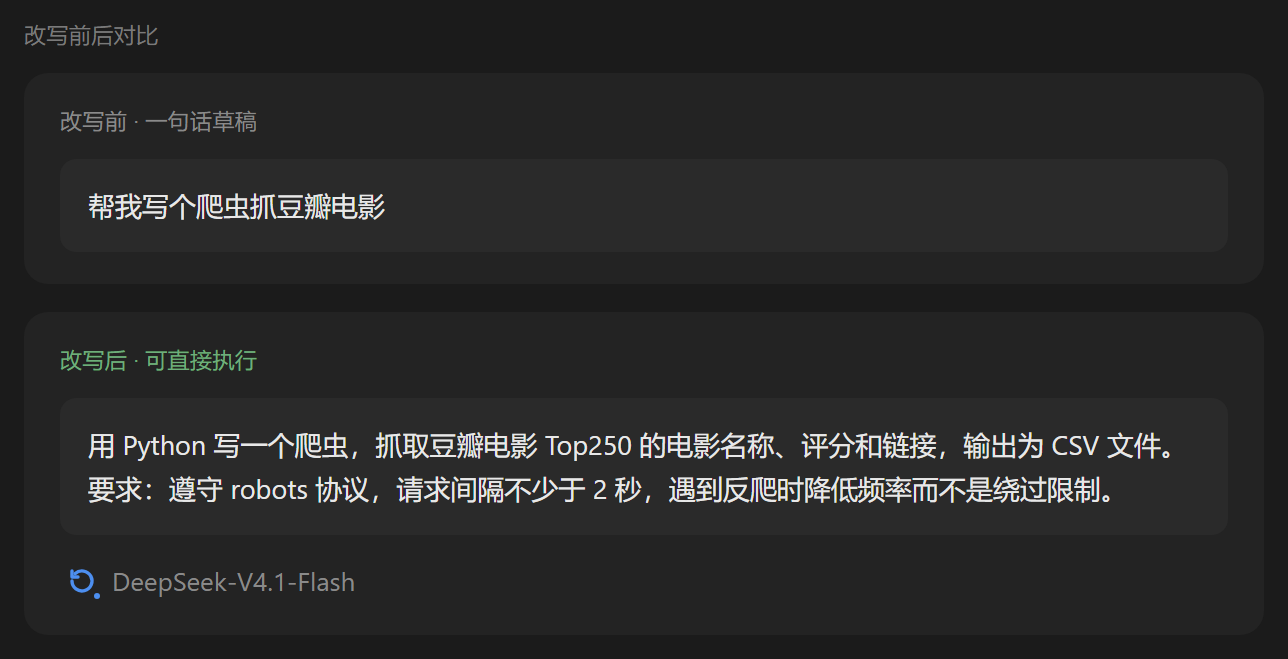
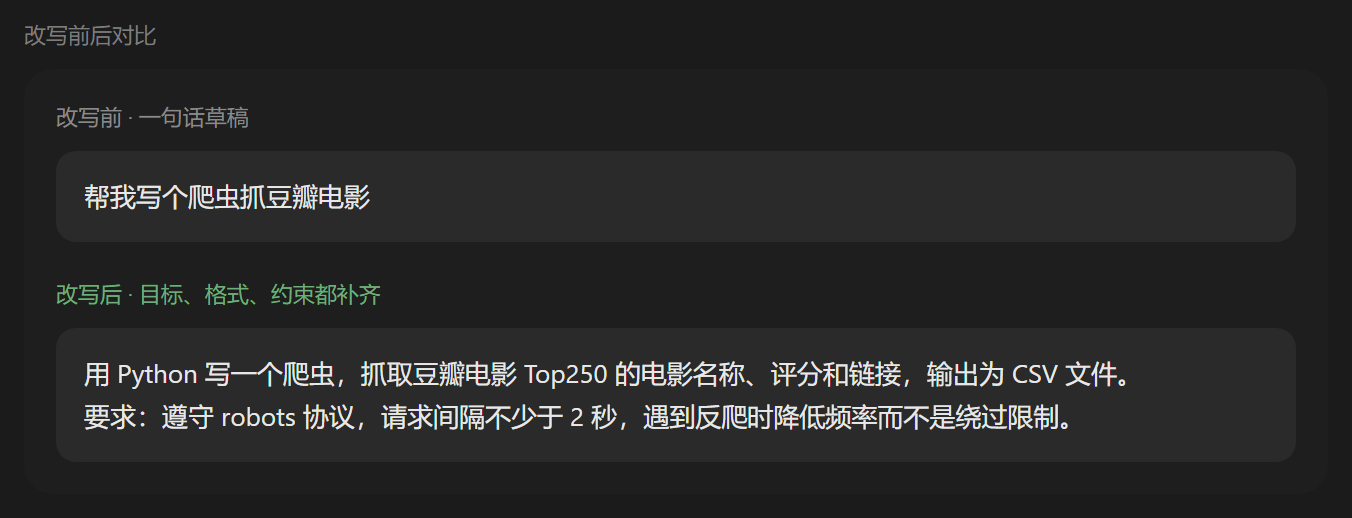
feat: rename to dsh-prompt-rewriter, rework screenshots, add release plumbing
The npm name dsh-prompt-enhance is taken by another author, so the package,
the loader row, the module ids, the README and every code reference move to
dsh-prompt-rewriter (free on both npm and GitHub).

Screenshots are re-rendered from the shipped stylesheet: the lead image now
shows the control inside a real composer card, next to the model label, which
is where the slot actually renders it.

LICENSE is now plain MIT so GitHub detects it; the third-party notices and the
upstream MIT text move to NOTICE.md. Adds engines, publishConfig, a syntax
guard, screenshots.json for the marketplace gallery, and CI plus a manual
publish workflow.

diff --git a/index.js b/index.js
@@ -1,5 +1,5 @@
 /**
- * dsh-prompt-enhance — Host half.
+ * dsh-prompt-rewriter — Host half.
  *
  * Owns one exact `/api/prompt-enhance` route that rewrites a composer draft into
  * a stronger prompt using the Session's currently selected model. The route is
@@ -12,7 +12,7 @@
  * user goals, confirmed constraints, reached conclusions and ruled-out options
  * are supplied so the rewrite cannot contradict what was already settled.
  *
- * @module dsh-prompt-enhance
+ * @module dsh-prompt-rewriter
  */
 
 import z from '@deepseek-ai/schemastery';
@@ -724,7 +724,7 @@ async function handle(scope, config, request, lifetime, windowCache) {
 	}
 }
 
-export const name = 'dsh-prompt-enhance';
+export const name = 'dsh-prompt-rewriter';
 
 /** The route needs the browser connection channel; `llm` stays optional. */
 export const inject = ['connection'];
@@ -739,11 +739,11 @@ const SETTING_KEYS = Object.freeze(['enhanceProvider', 'enhanceModel', 'useCusto
  * The namespace the settings service expects for this plugin.
  *
  * `settings.write()` looks the entry up with `row.options.id === ns`, i.e. the
- * SHORT id the loader row was inserted with — "dsh-prompt-enhance".
+ * SHORT id the loader row was inserted with — "dsh-prompt-rewriter".
  *
  * `fiber.entry.id` is the wrong value: its getter concatenates every ancestor
  * with the ":" separator, so a row inserted into a bundle group reports
- * "include:dsh-prompt-enhance". Passing that makes the lookup fail with
+ * "include:dsh-prompt-rewriter". Passing that makes the lookup fail with
  * `No configurable plugin entry`, which is exactly the save error this plugin
  * used to produce. The short `options.id` is the only value that matches.
  *
@@ -882,7 +882,7 @@ export function apply(ctx, rawConfig) {
 	// Model context windows change only when the route changes, so one memo per
 	// plugin lifetime is enough; it dies with the plugin.
 	const windowCache = new Map();
-	ctx.effect(() => () => lifetime.abort(), 'dsh-prompt-enhance: cancel in-flight requests on unload');
+	ctx.effect(() => () => lifetime.abort(), 'dsh-prompt-rewriter: cancel in-flight requests on unload');
 	ctx.effect(
 		() =>
 			ctx.connection.fetch.register({
@@ -891,7 +891,7 @@ export function apply(ctx, rawConfig) {
 				requestBody: 'buffered',
 				fetch: (request) => handleSettings(ctx, config, request),
 			}),
-		'dsh-prompt-enhance: settings route',
+		'dsh-prompt-rewriter: settings route',
 	);
 	ctx.inject(['llm'], (scope) => {
 		scope.effect(
@@ -902,7 +902,7 @@ export function apply(ctx, rawConfig) {
 					requestBody: 'buffered',
 					fetch: (request) => handle(scope, config, request, lifetime.signal, windowCache),
 				}),
-			'dsh-prompt-enhance: exact enhancement route',
+			'dsh-prompt-rewriter: exact enhancement route',
 		);
 	});
 }

diff --git a/client.js b/client.js
@@ -1,5 +1,5 @@
 window.__ModuleLoader__.load({
-	id: 'dsh-prompt-enhance',
+	id: 'dsh-prompt-rewriter',
 	factory(require) {
 		const React = require('react');
 		const h = React.createElement;
@@ -589,7 +589,7 @@ window.__ModuleLoader__.load({
 						// Keep the reason: an empty picker with no explanation is
 						// indistinguishable from a slow load, and the message is shown to the
 						// user instead of being swallowed.
-						if (typeof console !== 'undefined') console.warn('[dsh-prompt-enhance] model catalog failed:', failure?.message ?? failure);
+						if (typeof console !== 'undefined') console.warn('[dsh-prompt-rewriter] model catalog failed:', failure?.message ?? failure);
 						setCatalog({ status: 'error', groups: [] });
 					}
 				})();
@@ -824,7 +824,7 @@ window.__ModuleLoader__.load({
 		}
 
 		return {
-			name: 'dsh-prompt-enhance',
+			name: 'dsh-prompt-rewriter',
 			// `remote` and its sub-faces are Cordis services that MUST be injected.
 			// The shipped settings page declares exactly this shape
 			// (slots, locale, remote, remote.session, ...). Without `remote.session`
@@ -832,7 +832,7 @@ window.__ModuleLoader__.load({
 			// "读取模型列表失败" in the picker.
 			inject: ['slots', 'locale', 'remote', 'remote.session'],
 			apply(ctx) {
-				ctx.effect(installStyles, 'dsh-prompt-enhance: styles');
+				ctx.effect(installStyles, 'dsh-prompt-rewriter: styles');
 				ctx.effect(
 					() =>
 						ctx.locale.register(NS, {
@@ -897,7 +897,7 @@ window.__ModuleLoader__.load({
 								'settings.images.off': 'Off: text only.',
 							},
 						}),
-					'dsh-prompt-enhance: dictionaries',
+					'dsh-prompt-rewriter: dictionaries',
 				);
 				ctx.slots.inject('conversation.input.right', () =>
 					ctx.slots.register({ name: 'conversation.input.right', id: 'prompt-enhance', order: -100, locale: NS }, EnhanceControl),
@@ -926,7 +926,7 @@ window.__ModuleLoader__.load({
 				// fallback gear with CSS is the only non-invasive route: it touches no
 				// host node's structure, only one attribute on one button, and the mark
 				// disappears with the plugin.
-				ctx.effect(() => installNavMark(t('nav')), 'dsh-prompt-enhance: settings nav mark');
+				ctx.effect(() => installNavMark(t('nav')), 'dsh-prompt-rewriter: settings nav mark');
 			},
 		};
 	},

diff --git a/README.md b/README.md
@@ -1,4 +1,4 @@
-# dsh-prompt-enhance
+# dsh-prompt-rewriter
 
 一键把输入框里的草稿改写成更清晰、更完整的提示词，**不发送消息、不运行 Agent**。
 
@@ -6,21 +6,21 @@
 
 ## 界面预览
 
-### 增强按钮的四种状态
+### 按钮就在输入框里，紧挨模型名
 
-输入框为空时按钮不出现；有内容才出现，点击后进入改写动画，完成后变为可回退，失败则给出原因。
+按钮不占额外位置：它挂在输入框右侧、模型名左边，输入框有内容才出现。点一下，草稿原地变成完整提示词，不会发送消息。
 
-![增强按钮的四种状态：隐藏、就绪、改写中、完成回退、失败重试](docs/images/01-button-states.png)
+![输入框旁的增强按钮：草稿从一句话变成完整提示词](docs/images/01-composer-button.png)
 
 ### 改写前后对比
 
-左为原始的一句话草稿，右为改写结果：补全了目标、输出格式与约束条件，可直接交给模型执行。
+原始草稿只有一句话；改写后补全了目标、输出格式与约束条件，可直接交给模型执行。
 
 ![改写前后对比：一句话草稿变成结构完整、可执行的提示词](docs/images/02-before-after.png)
 
 ### 设置页
 
-`设置 → 提示词增强` 提供三个开关与一个模型选择器，只影响增强按钮，不影响正常发送。
+`设置 → 提示词增强` 提供三个开关与一个模型选择器，只影响这个按钮，不影响正常发送。
 
 ![设置页：模型选择、是否参考前文、是否参考输入框图片](docs/images/03-settings.png)
 
@@ -29,6 +29,12 @@
 空会话只处理当前草稿（图标无标记）；会话已有对话时参考前文，图标右下角出现小圆点。
 
 ![两种模式的区别：空会话无标记，有上下文时图标右下角显示小圆点](docs/images/04-context-modes.png)
+
+### 按钮的四种状态
+
+输入框为空时隐藏；有内容才出现。改写中播放动画，完成后变为可回退，失败则显示原因。
+
+![按钮状态：隐藏、就绪、改写中、完成回退、失败重试](docs/images/05-button-states.png)
 
 ## 功能
 
@@ -56,22 +62,49 @@
 
 ## 安装
 
-从本仓库克隆，装好依赖，再作为插件装进 Harness：
+三条路径，按你的情况选一条：
+
+| 方式 | 适合 | 要点 |
+|---|---|---|
+| **npm（推荐）** | 想拿最新版、不想管源码 | 装全局包，再让 `dsh` 指向它 |
+| **从源码克隆** | 想改代码、跟最新提交 | clone 后 `npm install` |
+| **从 Release 下载 zip** | 不想装 git / npm | 解压后 `npm install` |
+
+三者最后都落到同一步：用 `dsh plugin` 把这包装进 profile。区别只在包从哪来。
+
+### 从 npm 安装
 
 ```powershell
-git clone https://github.com/huaguoxingkong/dsh-prompt-enhance.git
-cd dsh-prompt-enhance
-npm install                                                   # 只拉 @deepseek-ai/schemastery
+npm install -g dsh-prompt-rewriter
+dsh plugin --profile desktop add dsh-prompt-rewriter
+```
+
+### 从源码安装
+
+```powershell
+git clone https://github.com/huaguoxingkong/dsh-prompt-rewriter.git
+cd dsh-prompt-rewriter
+npm install
 dsh plugin --profile desktop add .
 ```
+
+### 从 Release 安装
+
+到 [Releases](https://github.com/huaguoxingkong/dsh-prompt-rewriter/releases) 下载最新的 `dsh-prompt-rewriter-1.0.0.zip`，解压后：
+
+```powershell
+cd <解压目录>
+npm install
+dsh plugin --profile desktop add .
+```
+
+`npm install` 是必需的：插件用 `@deepseek-ai/schemastery` 声明设置页的 `Config`，它是唯一外部依赖，不装会在启动时报 `Cannot find package`。
 
 `dsh` 不在 PATH 时用完整路径（Windows 桌面版默认位置）：
 
 ```powershell
 & "D:\Soft\DeepSeek Harness\resources\runtime\cli\bin\dsh.cmd" plugin --profile desktop add .
 ```
-
-`npm install` 这一步是必需的：插件用 `@deepseek-ai/schemastery` 声明设置页的 `Config`，它是本仓库唯一的外部依赖，不装会在启动时报 `Cannot find package`。
 
 安装后需**重启 DeepSeek Harness**。本插件没有 HMR，bundle 在启动时读取快照，不重启不会生效。
 
@@ -80,8 +113,8 @@ dsh plugin --profile desktop add .
 profile 插件行的 `config` 字段全部可选。前五项为设置页托管，后五项为运维上限：
 
 ```yaml
-- id: dsh-prompt-enhance
-  name: dsh-prompt-enhance
+- id: dsh-prompt-rewriter
+  name: dsh-prompt-rewriter
   config:
     # 设置页托管
     useCustomModel: false      # 是否固定使用 enhanceProvider/enhanceModel

diff --git a/NOTICE.md b/NOTICE.md
@@ -55,6 +55,35 @@ without naming whose GIF it is, so whether those contours themselves derive
 from DeepSeek artwork is **not established by the available material**. If that
 provenance matters to you, ask upstream.
 
+### Full upstream MIT license (retained as that license requires)
+
+The 36 contours are copied from MIT-licensed material, so its copyright notice
+and permission text travel with them. Reproduced verbatim below.
+
+```
+MIT License
+
+Copyright (c) 2026 01Virex
+
+Permission is hereby granted, free of charge, to any person obtaining a copy
+of this software and associated documentation files (the "Software"), to deal
+in the Software without restriction, including without limitation the rights
+to use, copy, modify, merge, publish, distribute, sublicense, and/or sell
+copies of the Software, and to permit persons to whom the Software is
+furnished to do so, subject to the following conditions:
+
+The above copyright notice and this permission notice shall be included in all
+copies or substantial portions of the Software.
+
+THE SOFTWARE IS PROVIDED "AS IS", WITHOUT WARRANTY OF ANY KIND, EXPRESS OR
+IMPLIED, INCLUDING BUT NOT LIMITED TO THE WARRANTIES OF MERCHANTABILITY,
+FITNESS FOR A PARTICULAR PURPOSE AND NONINFRINGEMENT. IN NO EVENT SHALL THE
+AUTHORS OR COPYRIGHT HOLDERS BE LIABLE FOR ANY CLAIM, DAMAGES OR OTHER
+LIABILITY, WHETHER IN AN ACTION OF CONTRACT, TORT OR OTHERWISE, ARISING FROM,
+OUT OF OR IN CONNECTION WITH THE SOFTWARE OR THE USE OR OTHER DEALINGS IN THE
+SOFTWARE.
+```
+
 ## 2. DeepSeek 「大肥鱼」 brand mark — NOT MIT
 
 | | |
